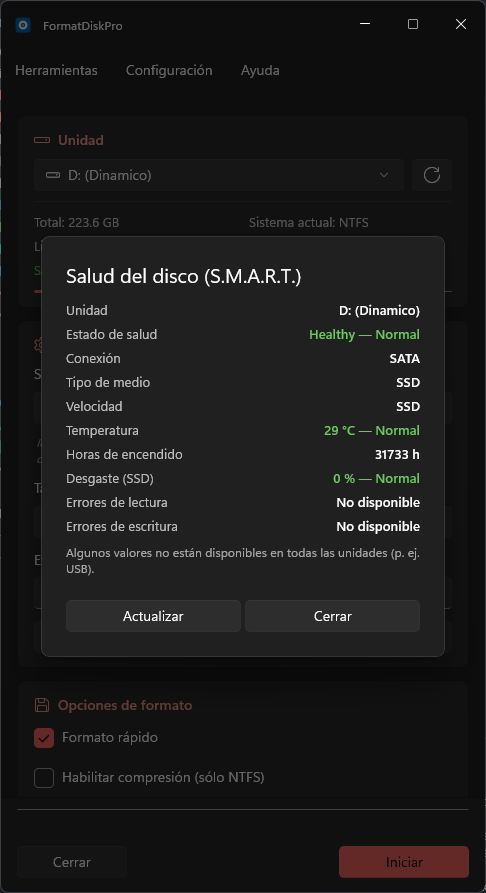
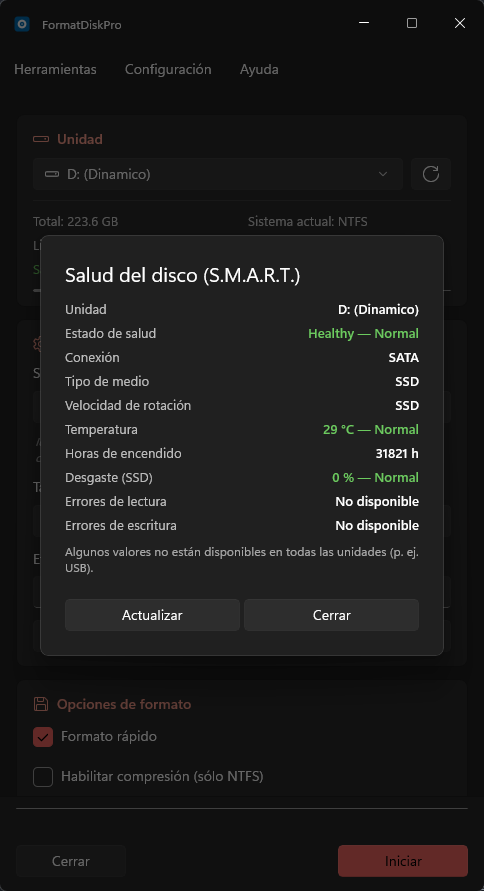
release: v1.15.2

diff --git a/src/FormatDiskPro/UI/MainWindow.xaml.cs b/src/FormatDiskPro/UI/MainWindow.xaml.cs
@@ -442,10 +442,29 @@ public sealed partial class MainWindow : Window
             InfoFreeText.Text  = L.T("info.free", FormatBytes(free));
             InfoFsText.Text    = L.T("info.fs", drive.DriveFormat);
             InfoTypeText.Text  = L.T("info.type", DriveTypeName(drive.DriveType));
-            CapacityBar.Value      = total > 0 ? (total - free) * 100.0 / total : 0;
+            double usedPct = total > 0 ? (total - free) * 100.0 / total : 0;
+            CapacityBar.Value      = usedPct;
+            CapacityBar.Foreground = CapacityBrush(usedPct);
             CapacityBar.Visibility = Visibility.Visible;
         }
         catch { ClearInfo(); }
+    }
+
+    /// <summary>
+    /// Pincel de la barra de OCUPACIÓN: neutro cuando hay espacio de sobra, ámbar al llenarse (≥80 %),
+    /// rojo casi llena (≥90 %). Una barra de capacidad no debe usar el color de ACENTO del sistema
+    /// (lo que hace un <c>ProgressBar</c> por defecto): en un equipo con acento rojo se veía roja con el
+    /// disco medio vacío y leía como alarma. El color codifica cuánto queda, no la marca. Ámbar/rojo
+    /// reusan <see cref="SeverityPalette"/> (theme-aware, contraste medido por tests); el neutro sigue el
+    /// tema efectivo (<c>_darkMode</c>), y se re-deriva al cambiar de tema porque <see cref="UpdateInfo"/>
+    /// vuelve a correr (ver <c>ApplyThemeMode</c>).
+    /// </summary>
+    private Brush CapacityBrush(double usedPct)
+    {
+        Color c = usedPct >= 90 ? SeverityPalette.For(SmartLevel.Critical, _darkMode)
+                : usedPct >= 80 ? SeverityPalette.For(SmartLevel.Warning, _darkMode)
+                : (_darkMode ? Color.FromArgb(255, 0xA0, 0xA0, 0xA0) : Color.FromArgb(255, 0x8A, 0x8A, 0x8A));
+        return new SolidColorBrush(c);
     }
 
     private void ClearInfo()
@@ -1165,21 +1184,49 @@ public sealed partial class MainWindow : Window
 
         // Modo: Solo comprobar (read-only, por defecto) / Comprobar y reparar / Cancelar.
         // La reparación (/f) no se ofrece en el disco de sistema (programaría un reinicio).
+        //
+        // Las dos acciones van como botones APILADOS a todo el ancho dentro del Content, no como
+        // Primary/Secondary del ContentDialog: con tres botones en una fila, "Comprobar y reparar"
+        // (y aún más su traducción PT/IT) no cabía y WinUI lo truncaba sin puntos suspensivos
+        // ("Comprobar y repar"). Apilados nunca truncan, en ningún idioma.
         var modeDlg = new ContentDialog
         {
-            Title             = L.T("check.modeTitle"),
-            Content           = L.T("check.modeBody", item.Letter),
-            PrimaryButtonText = L.T("check.scanOnly"),
-            CloseButtonText   = L.T("btn.cancel"),
-            DefaultButton     = ContentDialogButton.Primary,
-            XamlRoot          = Content.XamlRoot,
-            RequestedTheme    = CurrentTheme,
+            Title          = L.T("check.modeTitle"),
+            CloseButtonText = L.T("btn.cancel"),
+            XamlRoot       = Content.XamlRoot,
+            RequestedTheme = CurrentTheme,
         };
-        if (!protectedDrive) modeDlg.SecondaryButtonText = L.T("check.repair");
 
-        var choice = await modeDlg.ShowAsync();
-        if (choice == ContentDialogResult.None) return;
-        bool repair = choice == ContentDialogResult.Secondary;
+        bool? repairChoice = null;   // null = cancelar · false = solo comprobar · true = comprobar y reparar
+
+        var scanButton = new Button
+        {
+            Content             = L.T("check.scanOnly"),
+            HorizontalAlignment = HorizontalAlignment.Stretch,
+            Style               = (Style)Application.Current.Resources["AccentButtonStyle"],
+        };
+        scanButton.Click += (_, _) => { repairChoice = false; modeDlg.Hide(); };
+        // Enfocar el botón por defecto preserva "Enter = Solo comprobar" (antes lo daba DefaultButton).
+        scanButton.Loaded += (_, _) => scanButton.Focus(FocusState.Programmatic);
+
+        var panel = new StackPanel { Spacing = 8 };
+        panel.Children.Add(new TextBlock { Text = L.T("check.modeBody", item.Letter), TextWrapping = TextWrapping.Wrap });
+        panel.Children.Add(scanButton);
+        if (!protectedDrive)
+        {
+            var repairButton = new Button
+            {
+                Content             = L.T("check.repair"),
+                HorizontalAlignment = HorizontalAlignment.Stretch,
+            };
+            repairButton.Click += (_, _) => { repairChoice = true; modeDlg.Hide(); };
+            panel.Children.Add(repairButton);
+        }
+        modeDlg.Content = panel;
+
+        await modeDlg.ShowAsync();
+        if (repairChoice is null) return;   // Cancelar (botón Cerrar, Esc o clic fuera)
+        bool repair = repairChoice.Value;
 
         BeginOperation();
         FormatProgress.IsIndeterminate = false;

diff --git a/src/FormatDiskPro/Localization/Localization.cs b/src/FormatDiskPro/Localization/Localization.cs
@@ -179,7 +179,7 @@ public static class L
         ["health.status"]   = ["Estado de salud", "Health status", "Estado de saúde", "État de santé", "Stato di salute"],
         ["health.bus"]      = ["Conexión", "Bus", "Conexão", "Connexion", "Connessione"],
         ["health.media"]    = ["Tipo de medio", "Media type", "Tipo de mídia", "Type de support", "Tipo di supporto"],
-        ["health.spindle"]  = ["Velocidad", "Spindle speed", "Velocidade", "Vitesse de rotation", "Velocità"],
+        ["health.spindle"]  = ["Velocidad de rotación", "Spindle speed", "Velocidade de rotação", "Vitesse de rotation", "Velocità di rotazione"],
         ["health.temp"]     = ["Temperatura", "Temperature", "Temperatura", "Température", "Temperatura"],
         ["health.hours"]    = ["Horas de encendido", "Power-on hours", "Horas ligado", "Heures de fonctionnement", "Ore di accensione"],
         ["health.wear"]     = ["Desgaste (SSD)", "Wear (SSD)", "Desgaste (SSD)", "Usure (SSD)", "Usura (SSD)"],

diff --git a/CONTEXT.md b/CONTEXT.md
@@ -16,7 +16,7 @@
 | **Licencia** | GPLv3 · avisos de terceros · donaciones opcionales (PayPal) |
 | **Pruebas** | **289** unitarias · **23** de UI sobre la app real (17 pasan / 6 se omiten sin la USB de pruebas) |
 | **Hoja de ruta** | [`ROADMAP.md`](ROADMAP.md) — cerrada |
-| **Última actualización** | 2026-07-13 |
+| **Última actualización** | 2026-07-20 (pase UX/UI, sin publicar) |
 
 ---
 
@@ -220,6 +220,18 @@ WinUI, el `x:Name` del XAML se expone como tal sin configuración extra).
 - **`gh` (GitHub CLI):** si no está autenticado, los scripts reutilizan la credencial de git cacheada
   (`git credential fill` → `GH_TOKEN`), solo en local, sin imprimir el token.
 - **Framework de pruebas: xUnit.** Hay skills de mstest/nunit/tunit en `.agents/skills/`, pero **no se usan**.
+- **La barra de capacidad NO usa el color de acento** (desde el pase de UX del 2026-07-20). Un `ProgressBar`
+  por defecto hereda el acento del sistema; en un equipo con **acento rojo** la barra de ocupación se veía
+  roja con el disco medio vacío y leía como *alarma*. Ahora codifica ocupación, no marca: neutro <80 %,
+  ámbar ≥80 %, rojo ≥90 % (`MainWindow.CapacityBrush`). Ámbar/rojo reusan `SeverityPalette` (theme-aware,
+  contraste medido); el neutro sigue `_darkMode`. Es —junto a `SeverityPalette`— la otra excepción
+  deliberada al "sin colores hardcodeados" de `AppTheme.xaml`: una barra de datos debe usar color semántico.
+- **Capturas: fotografía el PUBLISH self-contained, no el `dotnet build`.** En esta máquina el apphost de un
+  `dotnet build -c Release` (runtime .NET *framework-dependent*) **no arranca**: muestra "You must install or
+  update .NET". `tools/capture-screenshots.ps1` prefiere `bin\Release`, así que tras un build plano capturaba
+  el **diálogo de error** en vez de la app. Publica primero como `build-installer.ps1`
+  (`dotnet publish -r win-x64 --self-contained true` a `%TEMP%\FormatDiskPro-publish`) y pásalo con
+  `-Exe <publish>\FormatDiskPro.exe`. Es además la foto correcta: el publish es lo que se distribuye.
 
 ## 5. Tareas comunes
 
@@ -294,6 +306,31 @@ etiqueta no rechaza `'` (menor, por diseño: el escape lo cubre).
 | **1.1.0** | Arquitectura por capas, hardening, tests, actualizaciones e instalador. |
 
 ---
+
+### 2026-07-20 — Pase de refinamiento UX/UI dirigido por capturas *(sin publicar aún)*
+
+Revisión visual de **cada** pantalla/diálogo conduciendo la app real por UI Automation. Se amplió
+`tools/capture-screenshots.ps1` con un **modo galería** (`-Gallery`, `-Only`): en una corrida fotografía
+los 12 diálogos/estados en claro **y** oscuro (proceso fresco por toma → una toma que falle no arrastra al
+resto). Salida en `docs/screenshots/gallery/` (gitignorada, no toca las 3 del README). Encontró y arregló:
+
+- **P1 — chkdsk: "Comprobar y reparar" salía truncado** a "Comprobar y repar" (3 botones no cabían en la
+  fila del `ContentDialog`, en **ambos** temas). Ahora las dos acciones van **apiladas a todo el ancho**
+  dentro del `Content` (nunca truncan, en ningún idioma); *Solo comprobar* queda enfocado para preservar
+  Enter. `MainWindow.MnuCheck_Click`.
+- **P2 — barra de capacidad en color de acento** → falsa alarma (roja con el disco sano). Ahora **semántica**
+  por ocupación (neutro/ámbar/rojo). Ver §4 *Otros*.
+- **P3 — S.M.A.R.T. "Velocidad: SSD"** era ambiguo (suena a MB/s) y redundante con "Tipo de medio". Renombrado
+  a **"Velocidad de rotación"** en ES/PT/IT (EN/FR ya lo eran). `health.spindle`.
+- **Fix de calidad de captura:** las 3 imágenes del README tenían una tira multicolor de 1px a la izquierda
+  (columna del borde semitransparente del DWM). `Save-WindowPng` recorta 1px en los 4 lados. README
+  regenerado limpio.
+
+**Lección (costó un round trip):** las capturas deben hacerse contra el **publish self-contained**, no contra
+`dotnet build`. Ver §4 *Otros*. **Falsos positivos descartados:** "JimÃ©nez" en Novedades (el changelog cita
+el string corrupto del #45, intencional) y el subrayado rojo de cajas con foco (acento estándar de WinUI).
+
+Build 0/0, **289/289** unitarias. Cambios **sin commitear ni publicar**: a la espera de decidir el corte.
 
 ### 2026-07-13 — Tier 9 (#41, #42, #45) + capturas + cierre del proyecto — **v1.15.1**
 

diff --git a/README.md b/README.md
@@ -149,10 +149,20 @@ Automation (fija tema, idioma y unidad, abre el diálogo S.M.A.R.T. y fotografí
 ```powershell
 .\tools\capture-screenshots.ps1                          # claro + oscuro + S.M.A.R.T.
 .\tools\capture-screenshots.ps1 -Theme dark -Language en -Drive H
+.\tools\capture-screenshots.ps1 -Gallery                 # modo galería: cada diálogo/estado en ambos temas
+.\tools\capture-screenshots.ps1 -Gallery -Only checkdisk,confirm   # solo unas tomas concretas
 ```
+
+El **modo galería** (`-Gallery`) fotografía cada diálogo y estado clave (Confirmar, Historial, Presets,
+chkdsk, Reinicializar, S.M.A.R.T., Acerca de…) en claro **y** oscuro para revisar la UX/UI de un vistazo;
+guarda en `docs/screenshots/gallery/` (ignorada por git) sin tocar las capturas del README.
 
 Requiere **terminal elevada** (la app es `requireAdministrator`) y una sesión de escritorio sin nada
 encima de la ventana. Respalda y restaura tu `settings.json` real, así que no altera tu configuración.
+
+> Fotografía el **publish self-contained** (lo que se distribuye), no el `dotnet build`: en algunas máquinas
+> el apphost *framework-dependent* de un build plano no arranca. Publica con `build-installer.ps1` (o
+> `dotnet publish … --self-contained true`) y pásalo con `-Exe <publish>\FormatDiskPro.exe`.
 
 ### Pruebas
 